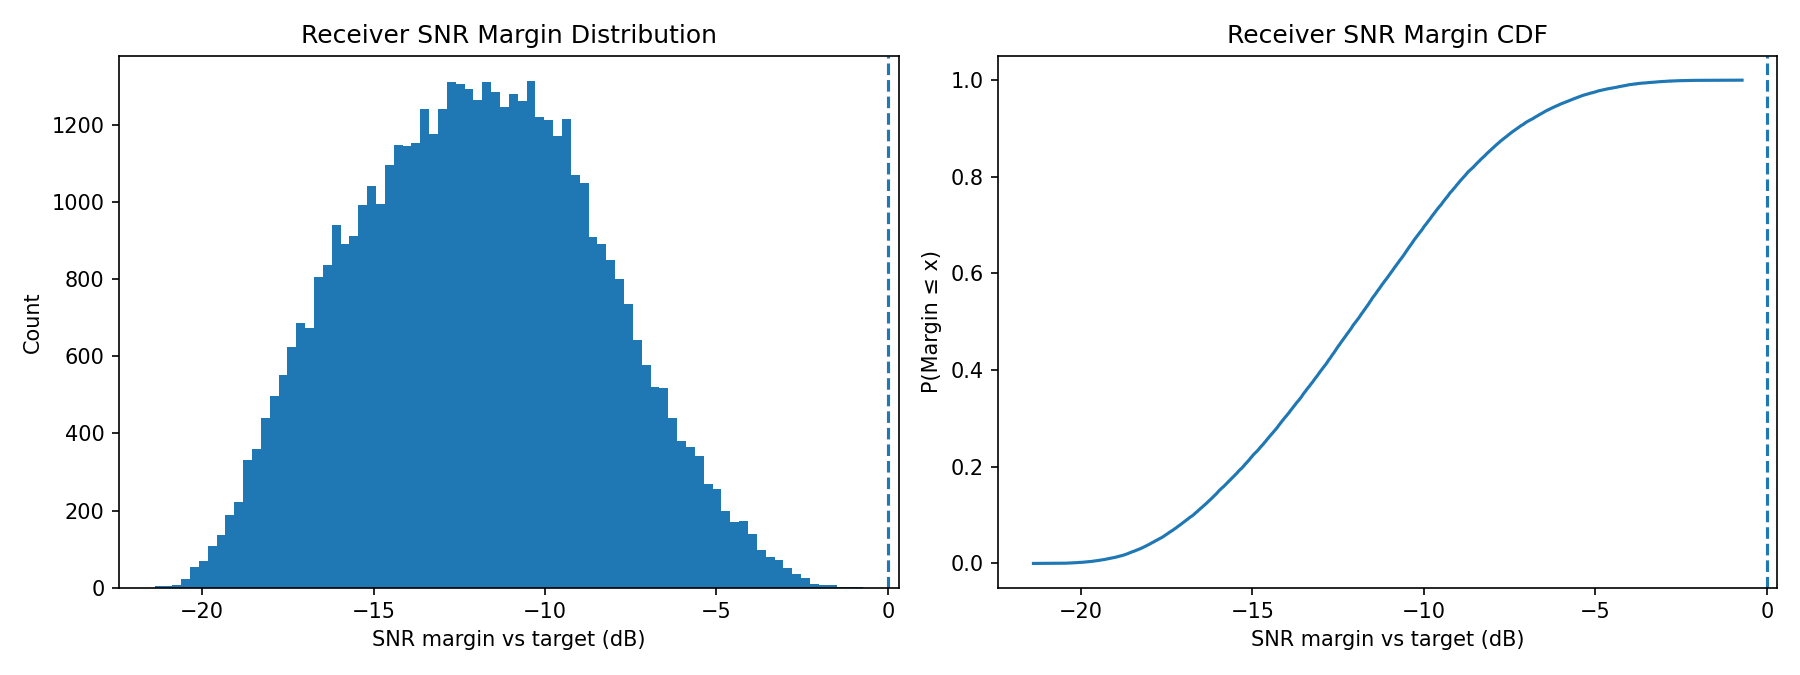
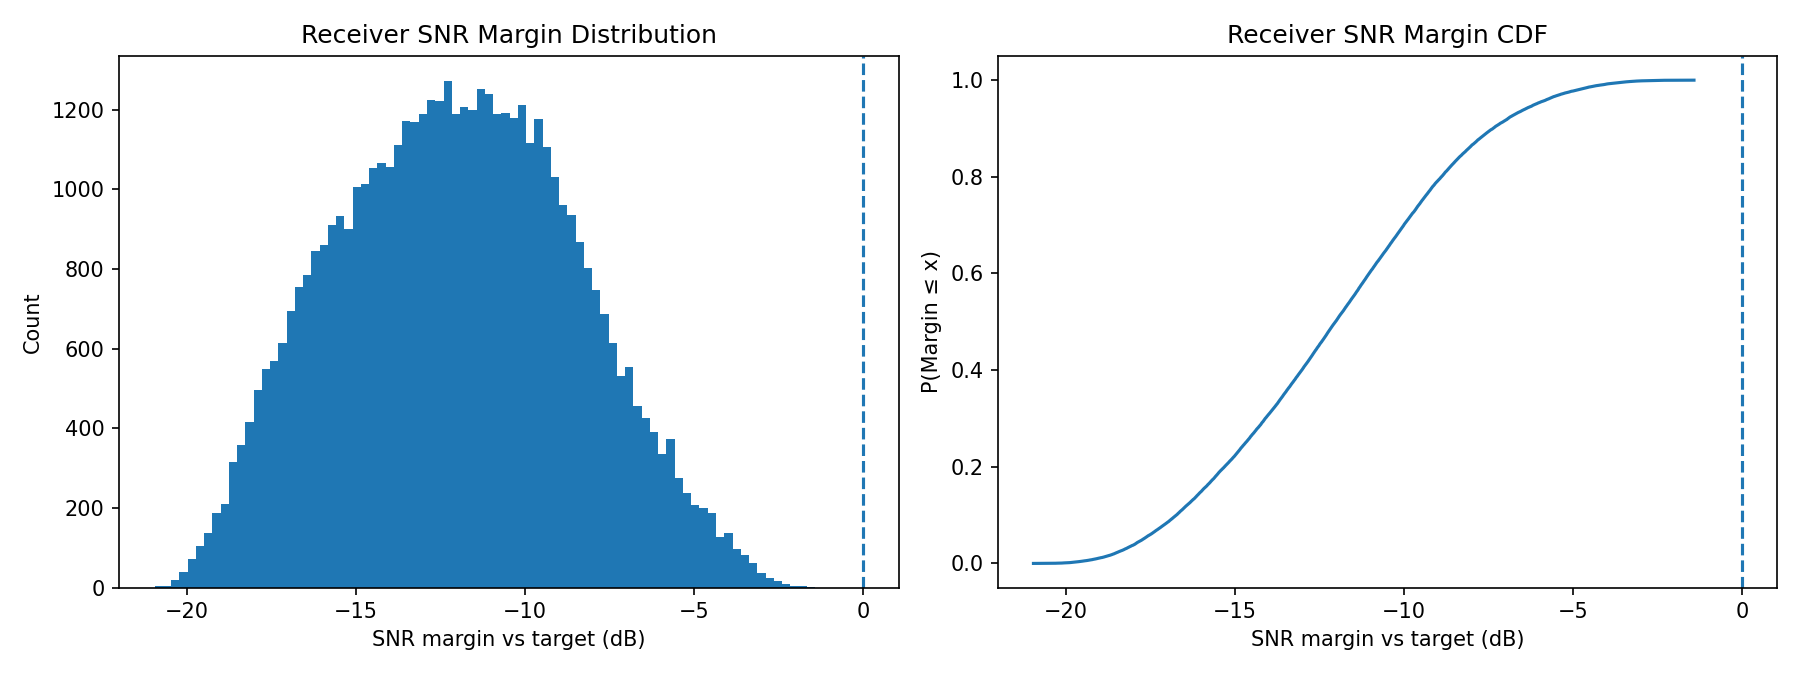
examples: use QPSK target SNR and tighter sky temperature range

diff --git a/examples/montecarlo-cn0-target/src/main.rs b/examples/montecarlo-cn0-target/src/main.rs
@@ -1,13 +1,14 @@
-use linkbudget::Receiver;
+use linkbudget::{Modulation, ber, Receiver};
 use montycarlo::{MonteCarloEngine, Simulation};
 use rand::Rng;
 use std::fs::{create_dir_all, File};
 use std::io::Write;
 
-/// Monte Carlo analysis for receiver SNR margin against a design target.
+/// Monte Carlo analysis for receiver SNR margin against QPSK target.
 ///
 /// Uses randomized `Receiver` parameters (temperature, noise figure, bandwidth)
 /// plus randomized received power to emulate environmental + implementation spread.
+/// Computes SNR margin vs the Eb/No required for QPSK at a target BER.
 struct ReceiverMarginSim {
     target_snr_db: f64,
 }
@@ -19,8 +20,8 @@ impl Simulation for ReceiverMarginSim {
     type Output = f64;
 
     fn sample(&self, rng: &mut impl Rng) -> Self::Sample {
-        // Example realistic ranges for a small satcom receiver analysis case.
-        let temperature_k = rng.gen_range(240.0..=380.0); // environment/system noise spread
+        // Tighter range for realistic sky + receiver scenario
+        let temperature_k = rng.gen_range(250.0..=300.0); // sky/receiver temp spread
         let noise_figure_db = rng.gen_range(1.2..=3.5); // RF front-end variation
         let bandwidth_hz = rng.gen_range(5.0e6..=25.0e6); // waveform/config variation
         let input_power_dbm = rng.gen_range(-107.0..=-97.0); // fading / pointing / rain spread
@@ -30,7 +31,7 @@ impl Simulation for ReceiverMarginSim {
 
     fn evaluate(&self, s: &Self::Sample) -> Self::Output {
         let rx = Receiver {
-            gain: 42.0, // not used by SNR calc but representative of dish gain in link models
+            gain: 42.0, // representative of dish gain in link models
             temperature: s.0,
             noise_figure: s.1,
             bandwidth: s.2,
@@ -43,7 +44,13 @@ impl Simulation for ReceiverMarginSim {
 
 fn main() -> Result<(), Box<dyn std::error::Error>> {
     let trials = 50_000;
-    let target_snr_db = 10.0;
+    
+    // QPSK required Eb/No for BER = 1e-6 (typical design target)
+    let target_eb_no_db = ber::required_eb_no_db(1e-6, &Modulation::Qpsk)
+        .unwrap_or(5.5); // fallback to ~5.5 dB if calculation fails
+    
+    // For simplicity, use Eb/No as the target SNR (assumes 1 bps/Hz)
+    let target_snr_db = target_eb_no_db;
 
     let sim = ReceiverMarginSim { target_snr_db };
     let result = MonteCarloEngine::new(sim, trials).with_seed(99).run();
@@ -58,7 +65,9 @@ fn main() -> Result<(), Box<dyn std::error::Error>> {
 
     let mut txt = File::create("output/receiver_snr_margin_summary.txt")?;
     writeln!(txt, "trials={}", result.len())?;
-    writeln!(txt, "target_snr_db={target_snr_db}")?;
+    writeln!(txt, "modulation=QPSK")?;
+    writeln!(txt, "target_ber=1e-6")?;
+    writeln!(txt, "target_snr_db={:.4}", target_snr_db)?;
     writeln!(txt, "mean_margin_db={:.4}", result.mean())?;
     writeln!(txt, "p05_margin_db={:.4}", result.percentile(5.0))?;
     writeln!(txt, "p50_margin_db={:.4}", result.percentile(50.0))?;
